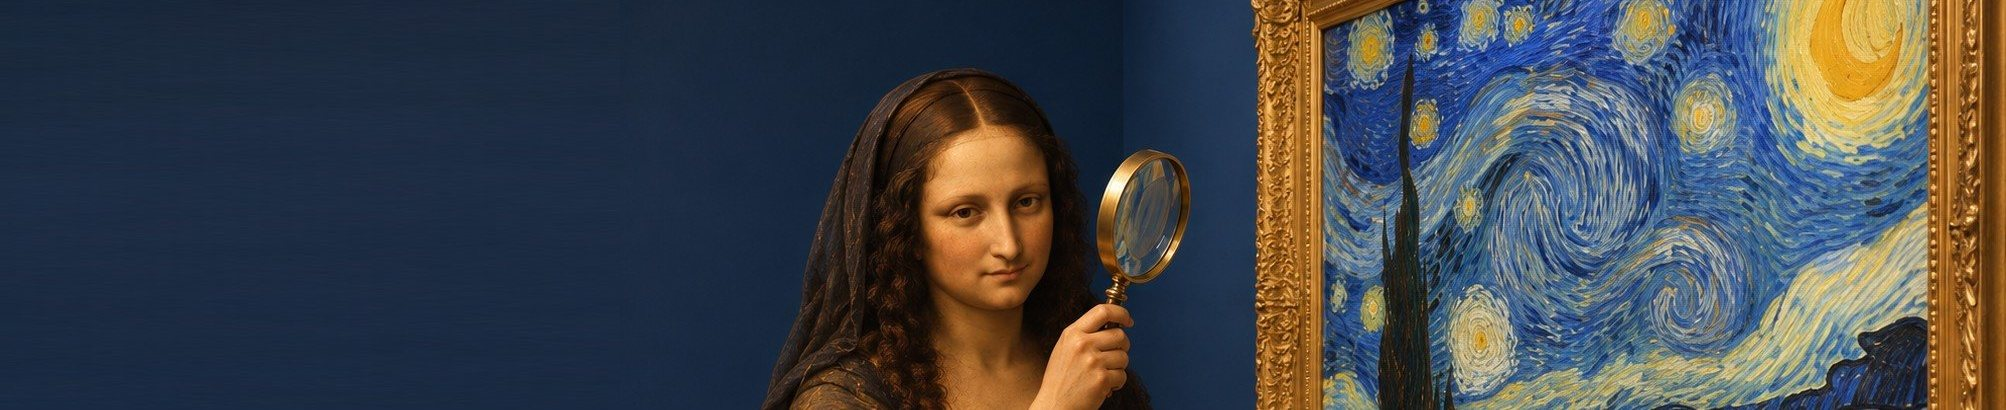
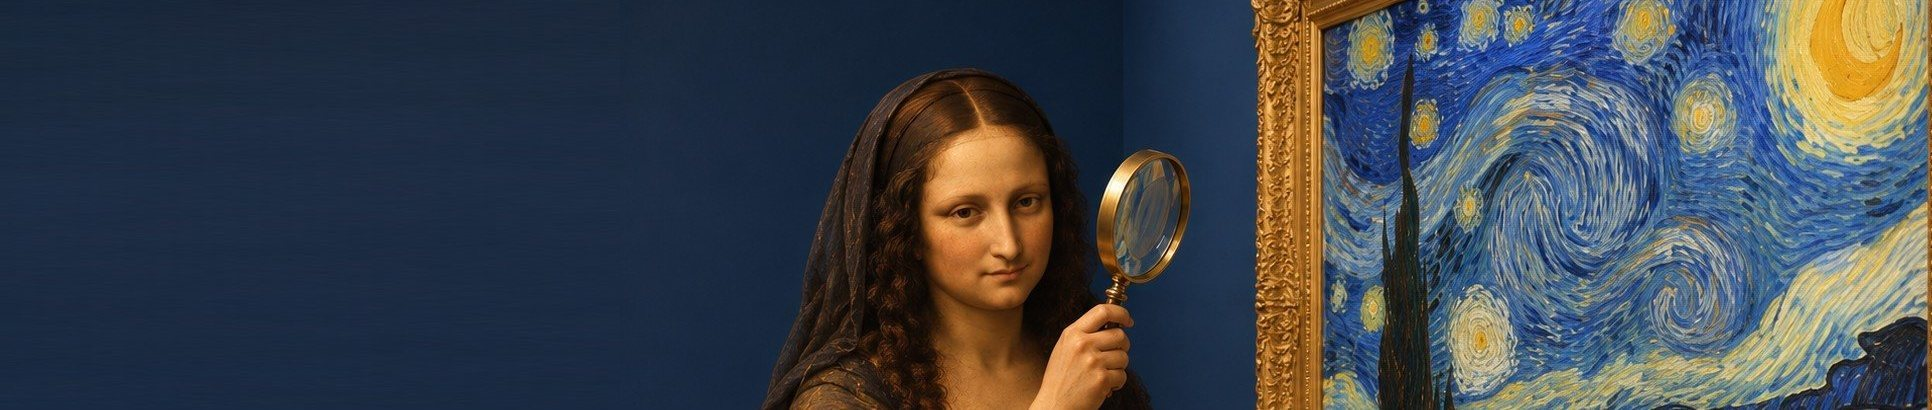
Remove frame

diff --git a/styles.css b/styles.css
@@ -180,7 +180,7 @@ ol.src li.ph-src.hl{font-style:italic}
 /* ===== Case Files banner (2026-10-27) ===== */
 .top{position:relative;display:block;padding:0;height:clamp(150px,19vw,243px);overflow:hidden;background:#1b2f5e}
 .top .bgimg{position:absolute;inset:0;width:100%;height:100%;object-fit:cover;object-position:50% 36%}
-.top #frameart{position:absolute;left:62.2%;top:0;width:34.3%;height:100%;object-fit:cover;object-position:50% 42%;display:none}
+.top #frameart{position:absolute;left:63.5%;top:0;width:36.5%;height:100%;object-fit:cover;object-position:50% 42%;display:none}
 body[data-view="card"] .top #frameart{display:block}
 .top a.brand{position:absolute;left:3.5%;top:50%;transform:translateY(-50%);background:var(--ivory);border-radius:10px;padding:.5rem .85rem;box-shadow:0 6px 22px rgba(0,0,0,.45);display:block}
 .top a.brand img{display:block;height:clamp(56px,8.4vw,104px);width:auto}
@@ -210,10 +210,4 @@ body[data-view="card"] nav.lvls{display:none}
  .top .bgimg{object-position:50% 22%}
 }
 
-/* gilt moulding drawn around the framed picture on all four sides */
-.top #framerim{position:absolute;left:62.2%;top:0;width:34.3%;height:100%;display:none;pointer-events:none;
- border:13px solid #a9842f;
- border-image:linear-gradient(140deg,#e7cd86 0%,#95701f 20%,#f3e2ae 44%,#7f5d18 68%,#dcc075 100%) 1;
- box-shadow:inset 0 0 0 2px rgba(38,26,6,.8), inset 0 0 22px rgba(0,0,0,.38), 0 3px 12px rgba(0,0,0,.5)}
-body[data-view="card"] .top #framerim{display:block}
-@media(max-width:820px){.top #framerim{display:none!important}}
+

diff --git a/index.html b/index.html
@@ -7,7 +7,7 @@
 <link rel="stylesheet" href="styles.css">
 </head>
 <body>
-<header class="top"><img class="bgimg" src="public/images/banner-gallery.jpg" alt=""><img id="frameart" alt=""><span id="framerim" aria-hidden="true"></span><a class="brand" href="#/deck/early-medieval"><img src="public/images/case-files-logo.png" alt="Case Files: Art History"></a><span class="rt"><span id="bank"></span><button type="button" id="savelvl" hidden>Save Level</button><button type="button" id="exitgame" hidden>Exit Game</button><a href="#/sources">Sources</a><a href="#/help">Help</a></span></header>
+<header class="top"><img class="bgimg" src="public/images/banner-gallery.jpg" alt=""><img id="frameart" alt=""><a class="brand" href="#/deck/early-medieval"><img src="public/images/case-files-logo.png" alt="Case Files: Art History"></a><span class="rt"><span id="bank"></span><button type="button" id="savelvl" hidden>Save Level</button><button type="button" id="exitgame" hidden>Exit Game</button><a href="#/sources">Sources</a><a href="#/help">Help</a></span></header>
 <nav class="lvls" aria-label="Levels"><a href="#/deck/early-medieval" data-lvl="apprentice">Novice</a><a href="#/level/journeyman" data-lvl="journeyman">Apprentice</a><a href="#/level/scholar" data-lvl="scholar">Artisan</a><a href="#/level/maestro" data-lvl="maestro">Master</a></nav>
 <main id="app" tabindex="-1"></main>
 <script src="content/cards.js"></script>
